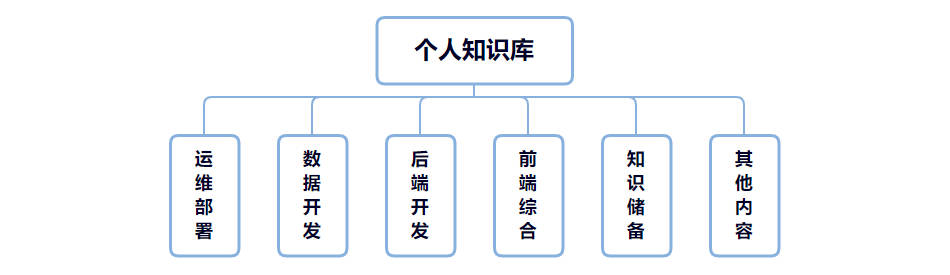
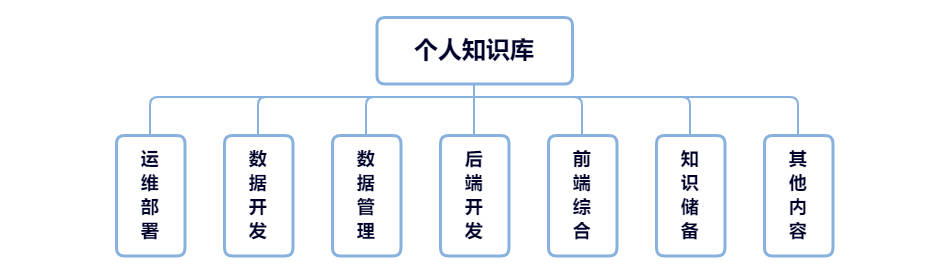
20230128

diff --git a/README.md b/README.md
@@ -431,6 +431,8 @@
 
 [Oracle的TRANSLATE函数](src/数据开发/Oracle的TRANSLATE函数)
 
+# **数据管理**
+
 # **后端开发**
 
 ## Java
@@ -732,42 +734,6 @@
 [Docsify的插件使用](src/前端综合/Docsify的插件使用)
 
 # **知识储备**
-
-## 数据管理
-
-[数据管理](src/知识储备/数据管理)
-
-[数据处理伦理](src/知识储备/数据管理)
-
-[数据治理](src/知识储备/数据管理)
-
-[数据架构](src/知识储备/数据管理)
-
-[数据建模和设计](src/知识储备/数据管理)
-
-[数据存储和操作](src/知识储备/数据管理)
-
-[数据安全](src/知识储备/数据管理)
-
-[数据集成和互操作](src/知识储备/数据管理)
-
-[文件和内容管理](src/知识储备/数据管理)
-
-[参考数据和主数据](src/知识储备/数据管理)
-
-[数据仓库和商务智能](src/知识储备/数据管理)
-
-[元数据管理](src/知识储备/数据管理)
-
-[数据质量](src/知识储备/数据管理)
-
-[大数据和数据科学](src/知识储备/数据管理)
-
-[数据管理成熟度评估](src/知识储备/数据管理)
-
-[数据管理组织和角色期望](src/知识储备/数据管理)
-
-[数据管理和组织变革管理](src/知识储备/数据管理)
 
 ## 数据分析
 

diff --git a/_navbar.md b/_navbar.md
@@ -1,6 +1,7 @@
 - [**首页**](/)
   - [运维部署](/?id=运维部署)
   - [数据开发](/?id=数据开发)
+  - [数据管理](/?id=数据管理)
   - [后端开发](/?id=后端开发)
   - [前端综合](/?id=前端综合)
   - [知识储备](/?id=知识储备)
